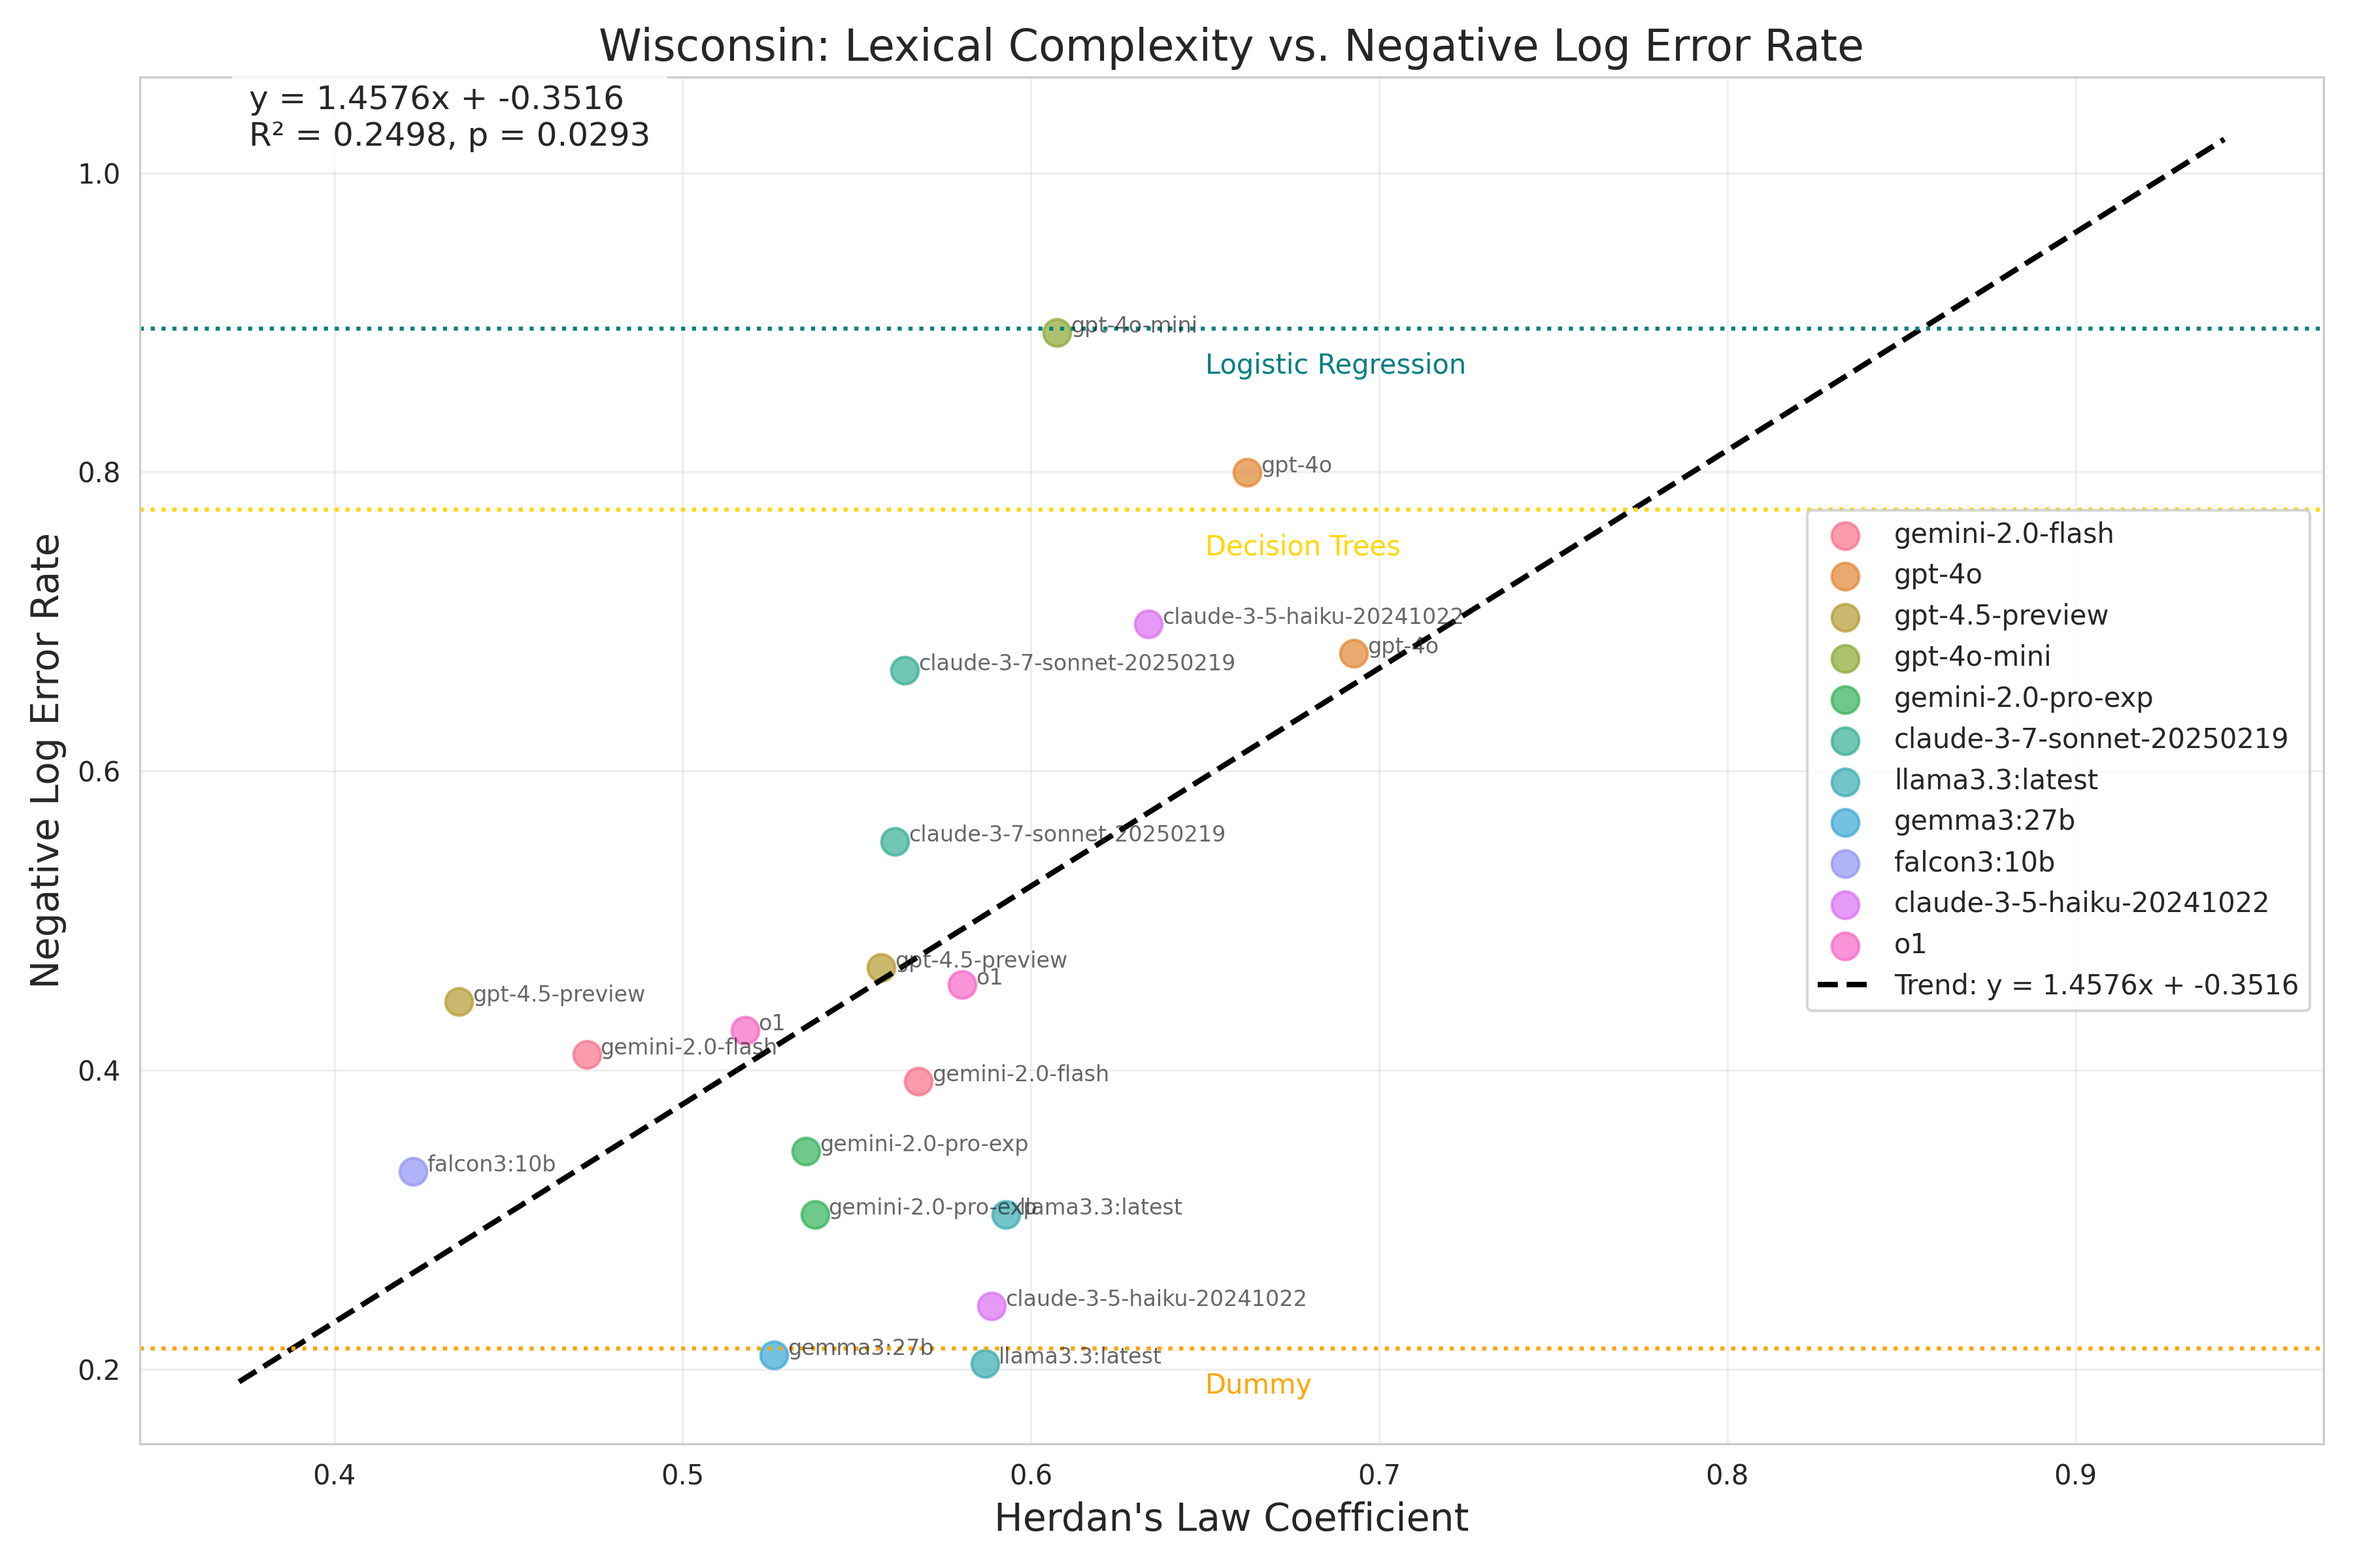
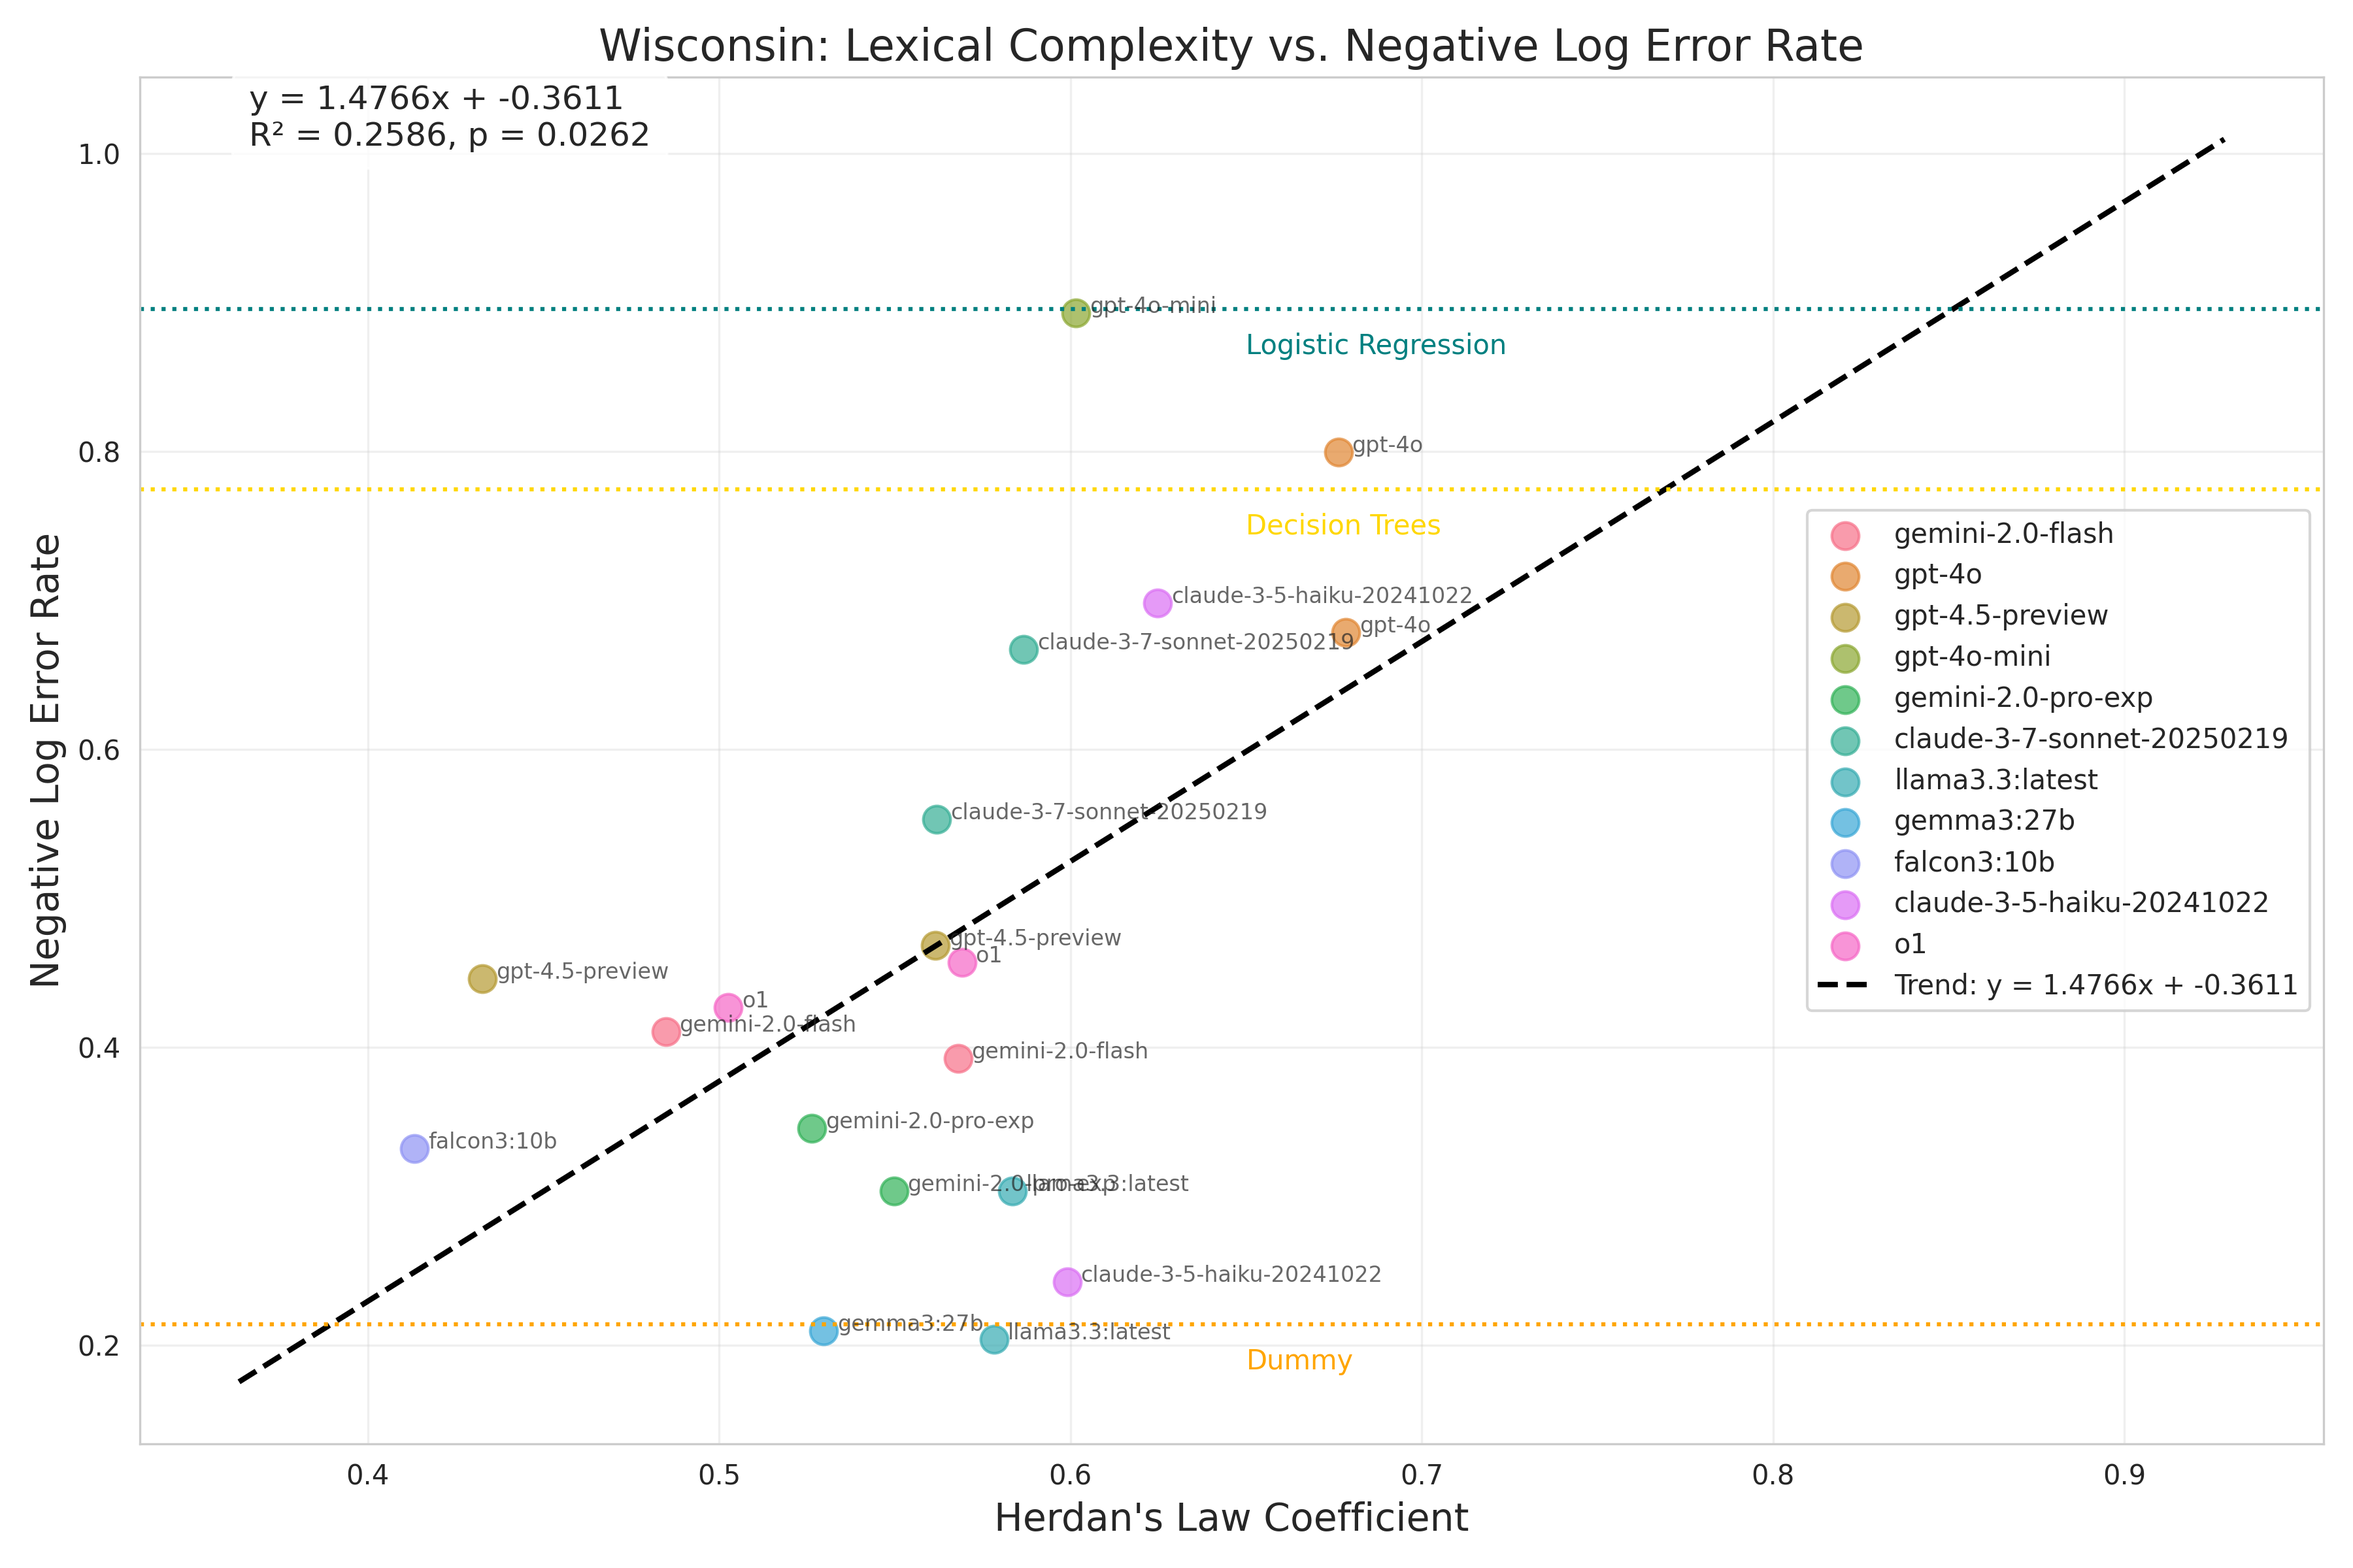
Latest experimental results

diff --git a/outputs/herdan-model-size-definitions.tex b/outputs/herdan-model-size-definitions.tex
@@ -1,3 +1,3 @@
-\newcommand{\herdansizetrend}{-0.025}
-\newcommand{\herdansizetrendpvalue}{0.038}
-\newcommand{\herdanaveragecorrelation}{0.48}
+\newcommand{\herdansizetrend}{-0.024}
+\newcommand{\herdansizetrendpvalue}{0.045}
+\newcommand{\herdanaveragecorrelation}{0.47}

diff --git a/outputs/southgermancredit_error_rate_by_herdan_slope.tex b/outputs/southgermancredit_error_rate_by_herdan_slope.tex
@@ -1,1 +1,1 @@
--0.213
+-0.203

diff --git a/outputs/southgermancredit_error_rate_by_herdan_pvalue.tex b/outputs/southgermancredit_error_rate_by_herdan_pvalue.tex
@@ -1,1 +1,1 @@
-0.369
+0.339

diff --git a/outputs/titanic_error_rate_by_herdan_pvalue.tex b/outputs/titanic_error_rate_by_herdan_pvalue.tex
@@ -1,1 +1,1 @@
-0.838
+0.685

diff --git a/outputs/titanic_error_rate_by_herdan_slope.tex b/outputs/titanic_error_rate_by_herdan_slope.tex
@@ -1,1 +1,1 @@
-0.071
+0.155

diff --git a/outputs/wisconsin_error_rate_by_herdan_pvalue.tex b/outputs/wisconsin_error_rate_by_herdan_pvalue.tex
@@ -1,1 +1,1 @@
-0.029
+0.026

diff --git a/outputs/wisconsin_error_rate_by_herdan_slope.tex b/outputs/wisconsin_error_rate_by_herdan_slope.tex
@@ -1,1 +1,1 @@
-1.458
+1.477
